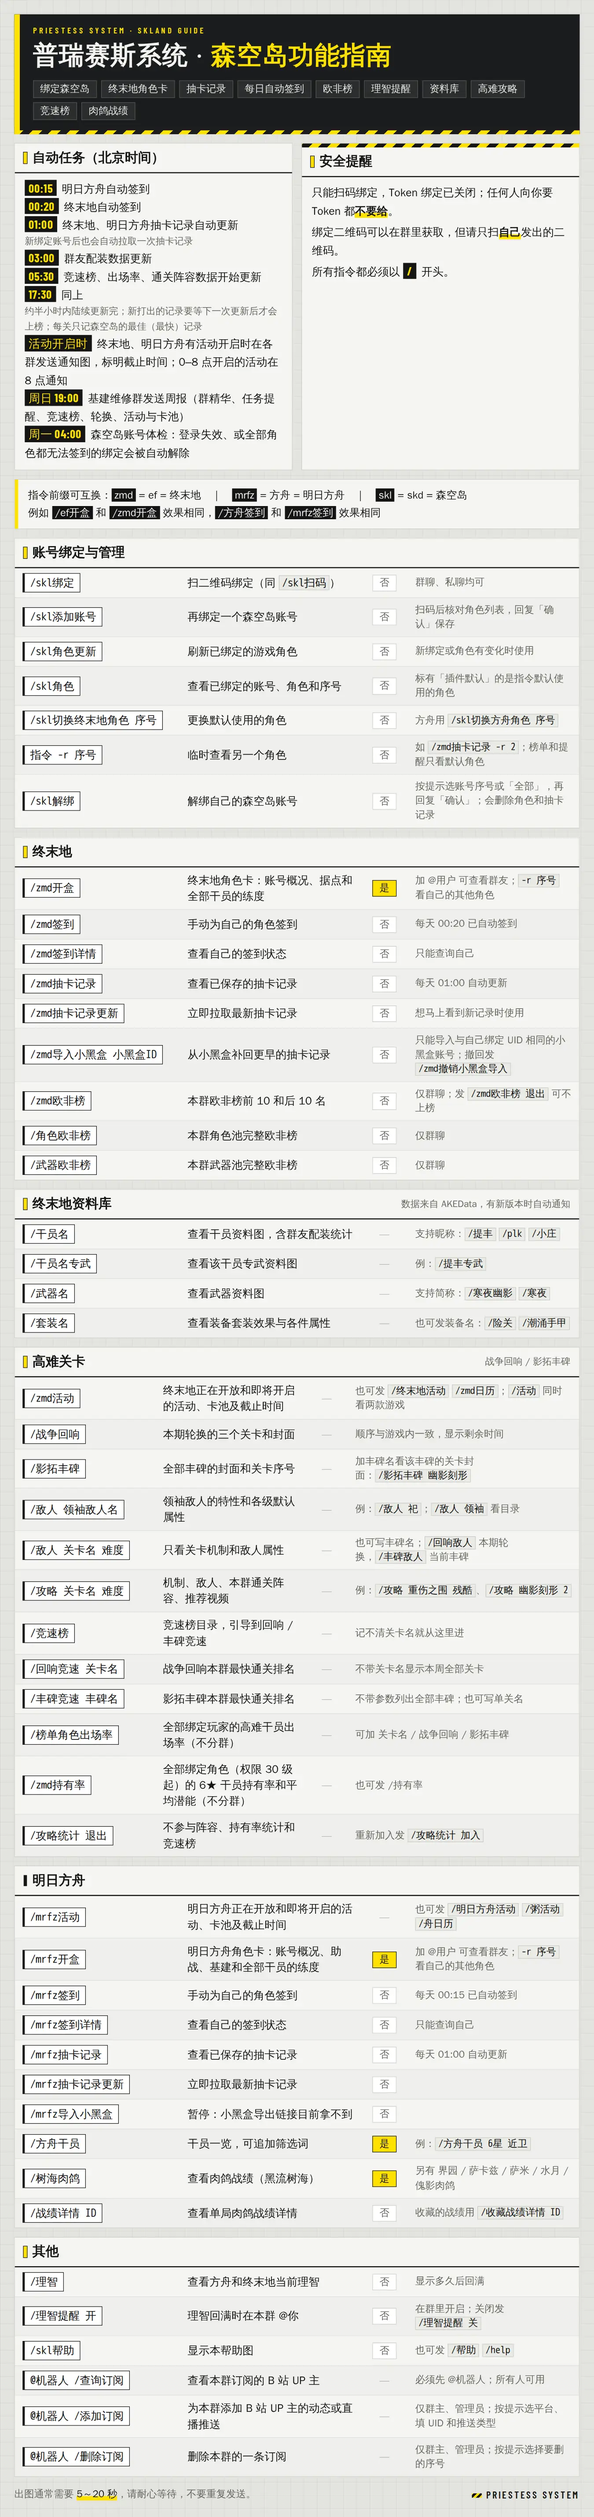
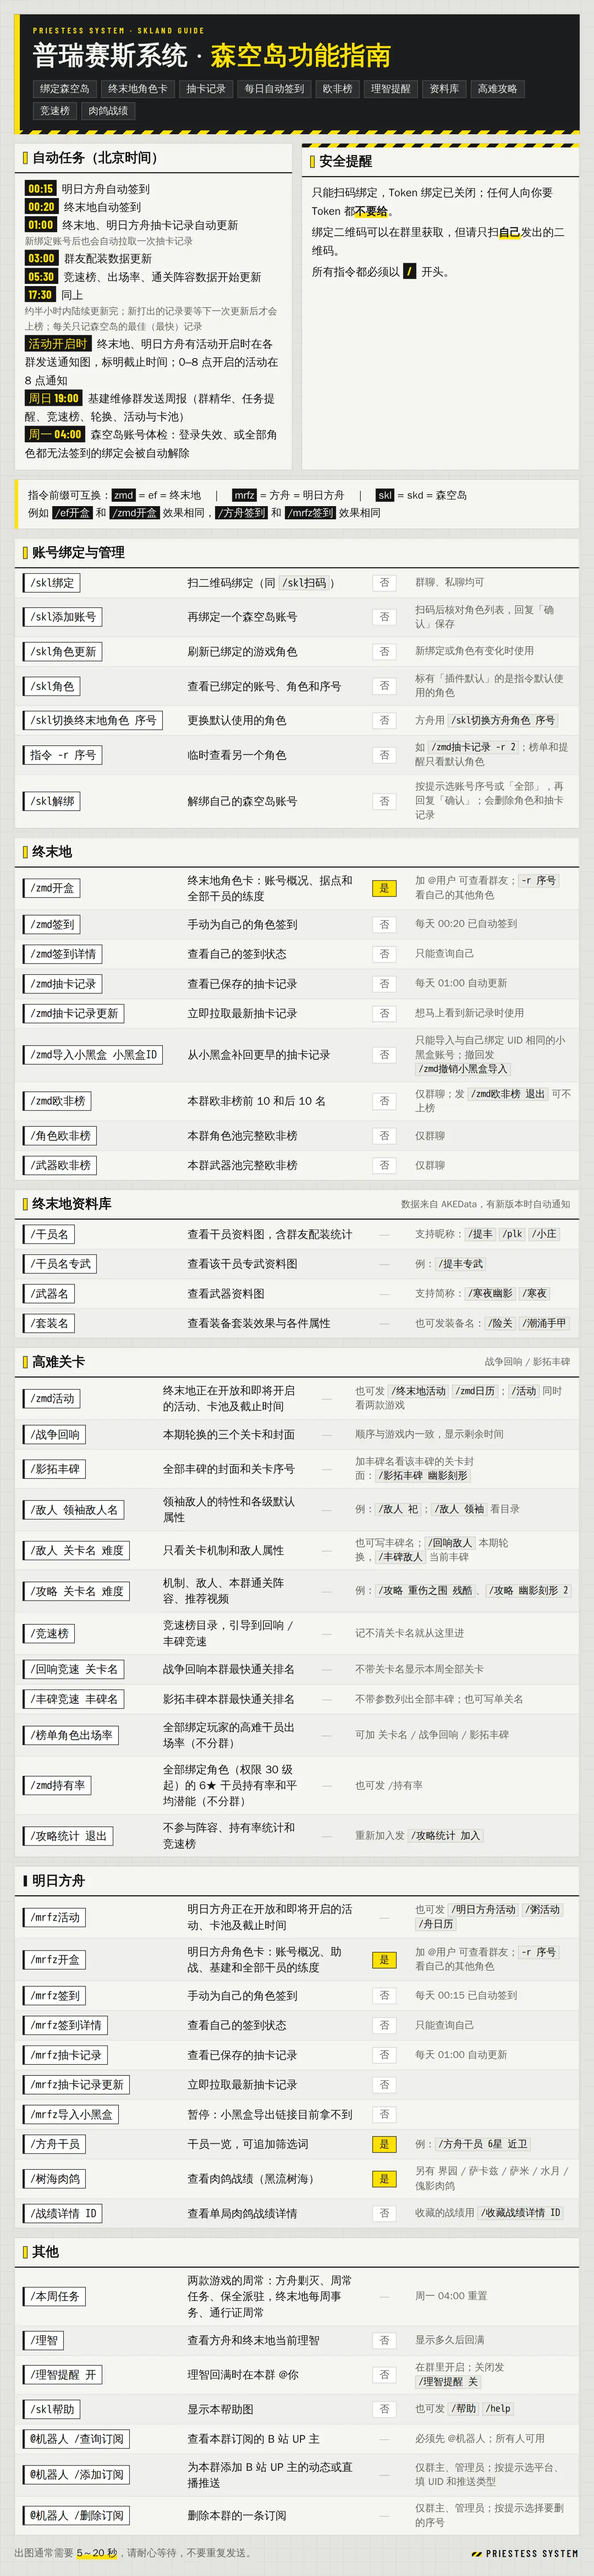
新增 /本周任务
两款游戏的周常一张图：明日方舟剿灭（本期轮换）、周常任务（按类合并、带点数）、保全派驻，终末地每周事务与通行证周常。方舟部分随游戏数据版本从 mission_table、campaign_table、climb_tower_table 和 stage_table 生成。周报的每周任务一栏同样调整，去掉与其他栏重复的战争回响轮换和影拓丰碑活动。

Changed region(s): [[0.0311, 0.0, 0.9644, 0.9958], [0.56, 0.3112, 0.5911, 0.3423]]

diff --git a/plugins/skl_help/help.html b/plugins/skl_help/help.html
@@ -218,6 +218,7 @@ td.note { color: var(--ef-sub); font-size: 18px; }
   <div class="ef-sec sec misc">
     <h3>其他</h3>
     <table>
+      <tr><td class="cmd"><code>/本周任务</code></td><td class="fn">两款游戏的周常：方舟剿灭、周常任务、保全派驻，终末地每周事务、通行证周常</td><td class="at"><span class="na">—</span></td><td class="note">周一 04:00 重置</td></tr>
       <tr><td class="cmd"><code>/理智</code></td><td class="fn">查看方舟和终末地当前理智</td><td class="at"><span class="no">否</span></td><td class="note">显示多久后回满</td></tr>
       <tr><td class="cmd"><code>/理智提醒 开</code></td><td class="fn">理智回满时在本群 @你</td><td class="at"><span class="no">否</span></td><td class="note">在群里开启；关闭发 <code>/理智提醒 关</code></td></tr>
       <tr><td class="cmd"><code>/skl帮助</code></td><td class="fn">显示本帮助图</td><td class="at"><span class="no">否</span></td><td class="note">也可发 <code>/帮助</code> <code>/help</code></td></tr>

diff --git a/plugins/weekly_report/__init__.py b/plugins/weekly_report/__init__.py
@@ -12,6 +12,8 @@ refreshed daily at 06:00 and re-checked, role + today's @全体 quota, right bef
 while AT_ALL is True: the owner turned it off on 2026-10-18.
 
 /周报预览   (superuser) render the report for the current chat, never with @全体
+/本周任务   (everyone) the weekly task section alone: Arknights annihilation, weekly missions and 保全派驻;
+            Endfield 每周事务 and the pass's weekly tasks (the owner's choice: the rotation has its own section)
 """
 
 from __future__ import annotations
@@ -67,6 +69,7 @@ IMAGE_LIMIT = 10 * 1024 * 1024
 AT_ALL = False  # @全体成员 with the scheduled Sunday report; off at the owner's request since 2026-10-18
 
 preview = on_command("周报预览", rule=strict, permission=SUPERUSER, priority=5, block=True)
+tasks_command = on_command("本周任务", aliases={"每周任务", "周常任务"}, rule=strict, priority=5, block=True)
 
 
 # ── helpers ─────────────────────────────────────────────────────────────
@@ -123,12 +126,38 @@ def _card(title: str, body: str, note: str = "") -> str:
 # ── sections ────────────────────────────────────────────────────────────
 
 
-def _tasks_section(index: dict, now: datetime) -> str:
-    rows = []
+def _ark_weekly() -> dict:
+    from plugins.game_calendar import ARKNIGHTS_FILE, arknights
+
+    return arknights.load(ARKNIGHTS_FILE).get("weekly") or {}
+
+
+def _ark_rows(ark: dict, now: datetime) -> list[str]:
     reset = _next_monday_4am(now)
-    rows.append(
-        f'<tr><td class="tag ak"><span>明日方舟</span></td><td><b>剿灭作战、周常任务</b><div class="sub">周一 {reset:%m/%d} 04:00 重置，还剩 {_left(reset, now)}</div></td></tr>'
-    )
+    when = f"周一 {reset:%m/%d} 04:00 重置，还剩 {_left(reset, now)}"
+    stamp = now.timestamp()
+    rotation = next((r for r in ark.get("annihilation", []) if r["open"] <= stamp <= r["close"] and r["stage"]), None)
+    current = f"；本期轮换「{escape(rotation['stage'])}」，{datetime.fromtimestamp(rotation['close'], CN):%m/%d} 结束" if rotation else ""
+    rows = [f'<tr><td class="tag ak"><span>明日方舟</span></td><td><b>剿灭作战</b><div class="sub">{when}{current}</div></td></tr>']
+    if ark.get("missions"):
+        items = "".join(f'<li>{escape(m["desc"])}<em>{m["points"]} 点</em></li>' for m in ark["missions"])
+        goal = f"，满 {ark['goal']} 点领取全部奖励" if ark.get("goal") else ""
+        rows.append(
+            f'<tr><td class="tag ak"><span>明日方舟</span></td><td><b>周常任务</b>'
+            f'<div class="sub">{when}；共 {ark["mission_count"]} 个、{ark["points"]} 点{goal}</div><ul class="tasks">{items}</ul></td></tr>'
+        )
+    for season in ark.get("sss", []):
+        if season["open"] <= stamp <= season["close"]:
+            end = datetime.fromtimestamp(season["close"] + 1, CN)
+            rows.append(
+                f'<tr><td class="tag ak"><span>明日方舟</span></td><td><b>保全派驻 · {escape(season["name"])}</b>'
+                f'<div class="sub">{end:%m/%d %H:%M} 结束，还剩 {_left(end, now)}</div></td></tr>'
+            )
+    return rows
+
+
+def _tasks_section(index: dict, now: datetime) -> str:
+    rows = _ark_rows(_ark_weekly(), now)
     weekly = index.get("calendar", {}).get("weekly") or {}
     opened = _parse(weekly.get("open", ""))
     if opened and weekly.get("weeks") and opened <= now:
@@ -167,20 +196,6 @@ def _tasks_section(index: dict, now: datetime) -> str:
             rows.append(
                 f'<tr><td class="tag ef"><span>终末地</span></td><td><b>通行证 第 {week["week"]} 周周常</b>'
                 f'<div class="sub">{nxt}本期通行证 {end:%m/%d %H:%M} 结束</div><ul class="tasks">{tasks}</ul></td></tr>'
-            )
-    endgame = index.get("endgame", {})
-    for season, week, start, end in _rotations(endgame):
-        if start <= now < end:
-            rows.append(
-                f'<tr><td class="tag ef"><span>终末地</span></td><td><b>战争回响 本期轮换</b>'
-                f'<div class="sub">{escape(_rotation_name(season, week))}，{end:%m/%d %H:%M} 轮换，还剩 {_left(end, now)}</div></td></tr>'
-            )
-    for activity in index.get("calendar", {}).get("activities", []):
-        start, end = _parse(activity["open"]), _parse(activity["close"])
-        if activity["id"].startswith("activity_high_difficulty") and start and end and start <= now < end:
-            rows.append(
-                f'<tr><td class="tag ef"><span>终末地</span></td><td><b>{escape(activity["name"])}</b>'
-                f'<div class="sub">影拓丰碑限时活动，{end:%m/%d %H:%M} 结束，还剩 {_left(end, now)}</div></td></tr>'
             )
     return _card("每周任务提醒", f'<table class="list">{"".join(rows)}</table>')
 
@@ -578,6 +593,31 @@ async def _weekly() -> None:
         await refresh_admin_groups(bot)
     stats = await send_all(bot, at_all=AT_ALL)
     logger.info(f"Weekly report sent in {time.time() - started:.0f}s: {stats}")
+
+
+async def build_tasks() -> bytes:
+    now = datetime.now(CN)
+    loaded = wiki._resolver()
+    index = loaded[0] if loaded else {}
+    reset = _next_monday_4am(now)
+    html = (
+        f'<!doctype html><html><head><meta charset="utf-8"><style>{ef_theme.css()}{CSS % WIDTH}</style></head><body class="ef">'
+        + ef_theme.head("Weekly Tasks", "本周 <em>任务</em>", f"{reset - timedelta(days=7):%m/%d} – {reset:%m/%d} 周一 04:00 重置")
+        + _tasks_section(index, now)
+        + ef_theme.foot(f'明日方舟数据来自游戏数据表，终末地数据来自 AKEData（版本 {escape(index.get("version", ""))}）<br>周报每周日 19:00 发送 · 全部指令发 /skl帮助')
+        + "</body></html>"
+    )
+    return await ef_theme.render_page(html, WIDTH, height=600, template_path=wiki.DATA_DIR.as_uri())
+
+
+@tasks_command.handle()
+async def _() -> None:
+    try:
+        image = await build_tasks()
+    except Exception as e:
+        logger.warning(f"Weekly tasks page failed: {type(e).__name__}")
+        await tasks_command.finish("本周任务生成失败，请稍后再试")
+    await tasks_command.finish(MessageSegment.image(image))
 
 
 @preview.handle()

diff --git a/plugins/game_calendar/arknights.py b/plugins/game_calendar/arknights.py
@@ -12,12 +12,15 @@ anything the tables do not have yet is added. Only the API is used; the wiki's p
 bot check and are not fetched.
 
 A small index is kept on disk: the game part is rebuilt when the repository's version file changes,
-the wiki part about once an hour.
+the wiki part about once an hour. With the game part go the weekly items for /本周任务 and the weekly
+report (`weekly`): the weekly missions (mission_table), the annihilation rotation (campaign_table, stage
+names from stage_table) and the 保全派驻 seasons (climb_tower_table).
 """
 
 from __future__ import annotations
 
 import json
+import re
 import time
 from pathlib import Path
 
@@ -28,6 +31,7 @@ VERSION_URL = f"{RAW}/refs/heads/main/version"
 ACTIVITY_URL = f"{RAW}/main/gamedata/excel/activity_table.json"
 GACHA_URL = f"{RAW}/main/gamedata/excel/gacha_table.json"
 POOL_DETAIL_URL = "https://weedy.prts.wiki/gacha_table.json"
+WEEKLY_URLS = {name: f"{RAW}/main/gamedata/excel/{name}.json" for name in ("mission_table", "campaign_table", "climb_tower_table", "stage_table")}
 WIKI_API = "https://prts.wiki/api.php"
 WIKI_QUERY = "[[分类:有活动信息的页面]][[活动结束时间::>{since}]]|?名称|?名称缩短|?分类|?活动开始时间|?活动结束时间|?标题图文件名|sort=活动开始时间|order=asc|limit=50"
 WIKI_POOL_QUERY = "[[分类:国服寻访]][[寻访关闭时间cn::>{since}]]|?寻访名cn|?寻访开启时间cn|?寻访关闭时间cn|sort=寻访开启时间cn|order=asc|limit=30"
@@ -186,6 +190,37 @@ def merge(game: list[dict], wiki: list[dict]) -> list[dict]:
     return sorted(merged, key=lambda a: a["start"])
 
 
+def build_weekly(missions: dict, campaigns: dict, towers: dict, stages: dict) -> dict:
+    """Weekly missions grouped by kind (one line per kind, its tiers and points), annihilation rotations and 保全派驻 seasons."""
+    kinds: dict[str, dict] = {}
+    for row in sorted((m for m in missions.get("missions", {}).values() if m.get("type") == "WEEKLY"), key=lambda m: m.get("sortId", 0)):
+        text = row.get("description", "")
+        kind = kinds.setdefault(re.sub(r"\d+", "{}", text, count=1), {"counts": [], "points": 0})
+        if number := re.search(r"\d+", text):
+            kind["counts"].append(int(number.group()))
+        kind["points"] += row.get("periodicalPoint", 0)
+    lines = []
+    for template, kind in kinds.items():
+        counts = sorted(kind["counts"])
+        amount = f"{counts[0]}–{counts[-1]}" if len(counts) > 1 else str(counts[0]) if counts else ""
+        lines.append({"desc": template.format(amount) if "{}" in template else template, "points": kind["points"]})
+    now = time.time()
+    rewards = [r for r in missions.get("weeklyRewards", {}).values() if r.get("beginTime", 0) <= now <= r.get("endTime", 0)]
+    rotations = [
+        {"stage": (stages.get(r.get("stageId", "")) or {}).get("name", ""), "open": r.get("startTs", 0), "close": r.get("endTs", 0)}
+        for r in campaigns.get("campaignRotateStageOpenTimes", [])
+    ]
+    seasons = [{"name": s.get("name", ""), "open": s.get("startTs", 0), "close": s.get("endTs", 0)} for s in towers.get("seasonInfos", {}).values()]
+    return {
+        "missions": lines,
+        "mission_count": sum(len(k["counts"]) or 1 for k in kinds.values()),
+        "points": sum(line["points"] for line in lines),
+        "goal": sum(r.get("periodicalPointCost", 0) for r in rewards),
+        "annihilation": rotations,
+        "sss": seasons,
+    }
+
+
 def load(cache_file: Path) -> dict:
     try:
         return json.loads(cache_file.read_text("utf-8"))
@@ -224,6 +259,18 @@ async def refresh(cache_file: Path, character_table: Path) -> str:
             activities, pools = build(tables[0], tables[1], details, _operator_names(character_table), now)
             cached.update(version=version, fetched=now, game_activities=activities, pools=pools)
             done.append(f"game data {version}: {len(activities)} activities, {len(pools)} pools")
+        if (cached.get("weekly") or {}).get("version") != version:  # stage_table is ~20 MB: once per game version
+            try:
+                tables = {}
+                for name, url in WEEKLY_URLS.items():
+                    response = await client.get(url)
+                    response.raise_for_status()
+                    tables[name] = response.json()
+                weekly = build_weekly(tables["mission_table"], tables["campaign_table"], tables["climb_tower_table"], tables["stage_table"].get("stages", {}))
+                cached["weekly"] = {"version": version, **weekly}
+                done.append(f"weekly: {len(weekly['missions'])} mission kinds")
+            except (httpx.HTTPError, ValueError) as e:  # the old weekly part stays; asked again next time
+                done.append(f"weekly unavailable ({type(e).__name__})")
         if now - (cached.get("wiki") or {}).get("fetched", 0) >= WIKI_INTERVAL:
             since = time.strftime("%Y-%m-%dT%H:%M:%S", time.gmtime(now - 86400))
             failure = ""
